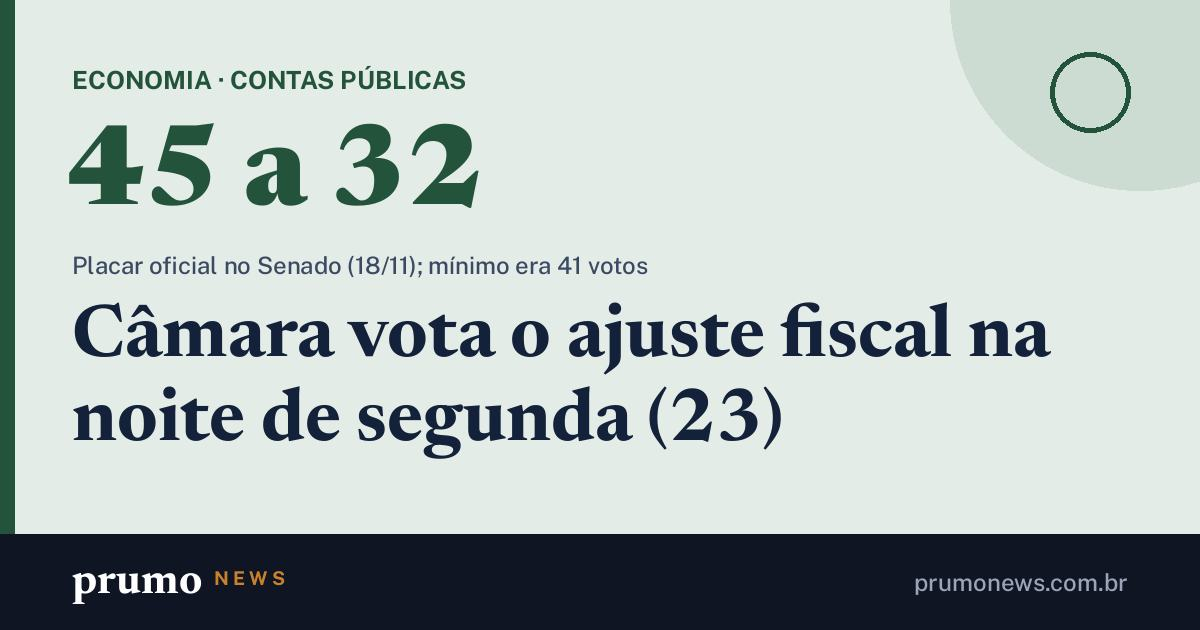
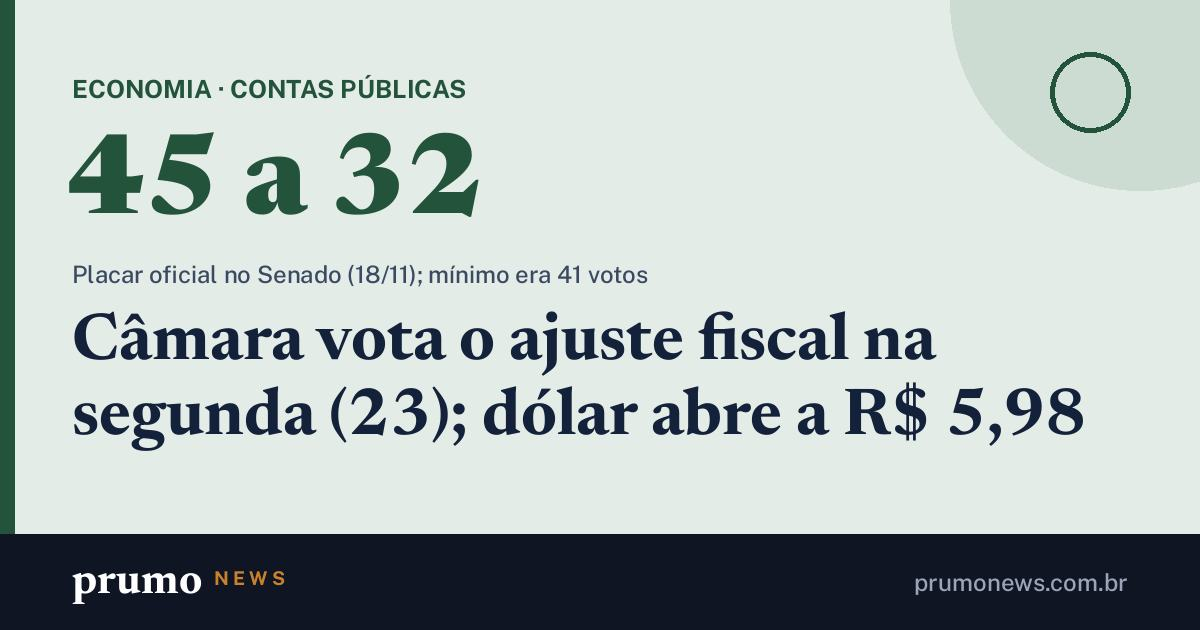
Páginas de compartilhamento 23/11 09h52

Changed region(s): [[0.0617, 0.4825, 0.925, 0.7238], [0.0308, 0.0905, 0.4008, 0.3619], [0.0617, 0.3921, 0.555, 0.4524]]

diff --git a/m/focus-projecoes-3-nov.html b/m/focus-projecoes-3-nov.html
@@ -3,20 +3,20 @@
 <head>
 <meta charset="utf-8">
 <meta name="viewport" content="width=device-width, initial-scale=1">
-<title>Novo Focus sai na segunda (23); o último vê IPCA de 2026 a 5,11% · Prumo News</title>
-<meta name="description" content="O boletim de segunda (16) mostrou a Selic em 13,75% no fim de 2026 e juros de 12,75% em 2027; o Copom decide a Selic em 9/12.">
-<link rel="canonical" href="https://prumonews.com.br/m/novo-focus-sai-na-segunda-23-o-ultimo-ve-ipca-de-2026-a-5-11.html">
+<title>Focus eleva o IPCA de 2026 a 5,15% e corta o PIB de novo · Prumo News</title>
+<meta name="description" content="O IPCA de 2026 passou de 5,11% para 5,15%, acima do teto de 4,5%; o Copom decide a Selic em 9/12.">
+<link rel="canonical" href="https://prumonews.com.br/m/focus-eleva-o-ipca-de-2026-a-5-15-e-corta-o-pib-de-novo.html">
 <meta property="og:type" content="article">
 <meta property="og:site_name" content="Prumo News">
 <meta property="og:locale" content="pt_BR">
-<meta property="og:title" content="Novo Focus sai na segunda (23); o último vê IPCA de 2026 a 5,11%">
-<meta property="og:description" content="O boletim de segunda (16) mostrou a Selic em 13,75% no fim de 2026 e juros de 12,75% em 2027; o Copom decide a Selic em 9/12.">
-<meta property="og:url" content="https://prumonews.com.br/m/novo-focus-sai-na-segunda-23-o-ultimo-ve-ipca-de-2026-a-5-11.html">
+<meta property="og:title" content="Focus eleva o IPCA de 2026 a 5,15% e corta o PIB de novo">
+<meta property="og:description" content="O IPCA de 2026 passou de 5,11% para 5,15%, acima do teto de 4,5%; o Copom decide a Selic em 9/12.">
+<meta property="og:url" content="https://prumonews.com.br/m/focus-eleva-o-ipca-de-2026-a-5-15-e-corta-o-pib-de-novo.html">
 <meta property="og:image" content="https://upload.wikimedia.org/wikipedia/commons/thumb/5/57/Edif%C3%ADcio_sede_do_Banco_Central_do_Brasil_%2816011635094%29.jpg/960px-Edif%C3%ADcio_sede_do_Banco_Central_do_Brasil_%2816011635094%29.jpg">
 <meta name="twitter:card" content="summary_large_image">
 <meta name="theme-color" content="#0f1522">
 <script>location.replace("/#m=focus-projecoes-3-nov")</script>
 <style>body{margin:0;font:16px/1.5 system-ui,sans-serif;background:#0f1522;color:#e8ecf2;display:grid;place-items:center;min-height:100vh;padding:24px;box-sizing:border-box;text-align:center}a{color:#e6b673}</style>
 </head>
-<body><p><a href="/#m=focus-projecoes-3-nov">Novo Focus sai na segunda (23); o último vê IPCA de 2026 a 5,11%</a><br>Abrindo no Prumo News…</p></body>
+<body><p><a href="/#m=focus-projecoes-3-nov">Focus eleva o IPCA de 2026 a 5,15% e corta o PIB de novo</a><br>Abrindo no Prumo News…</p></body>
 </html>

diff --git a/m/ajuste-fiscal-lula-4.html b/m/ajuste-fiscal-lula-4.html
@@ -3,16 +3,16 @@
 <head>
 <meta charset="utf-8">
 <meta name="viewport" content="width=device-width, initial-scale=1">
-<title>Câmara vota o ajuste fiscal na noite de segunda (23) · Prumo News</title>
+<title>Câmara vota o ajuste fiscal na segunda (23); dólar abre a R$ 5,98 · Prumo News</title>
 <meta name="description" content="O governo precisa de 257 votos; o relator mantém o texto do Senado, com economia de até R$ 50 bi em 2027, e sem mudanças o projeto vai à sanção.">
-<link rel="canonical" href="https://prumonews.com.br/m/camara-vota-o-ajuste-fiscal-na-noite-de-segunda-23.html">
+<link rel="canonical" href="https://prumonews.com.br/m/camara-vota-o-ajuste-fiscal-na-segunda-23-dolar-abre-a-r-5-98.html">
 <meta property="og:type" content="article">
 <meta property="og:site_name" content="Prumo News">
 <meta property="og:locale" content="pt_BR">
-<meta property="og:title" content="Câmara vota o ajuste fiscal na noite de segunda (23)">
+<meta property="og:title" content="Câmara vota o ajuste fiscal na segunda (23); dólar abre a R$ 5,98">
 <meta property="og:description" content="O governo precisa de 257 votos; o relator mantém o texto do Senado, com economia de até R$ 50 bi em 2027, e sem mudanças o projeto vai à sanção.">
-<meta property="og:url" content="https://prumonews.com.br/m/camara-vota-o-ajuste-fiscal-na-noite-de-segunda-23.html">
-<meta property="og:image" content="https://prumonews.com.br/m/og/ajuste-fiscal-lula-4.jpg?v=66f098b992">
+<meta property="og:url" content="https://prumonews.com.br/m/camara-vota-o-ajuste-fiscal-na-segunda-23-dolar-abre-a-r-5-98.html">
+<meta property="og:image" content="https://prumonews.com.br/m/og/ajuste-fiscal-lula-4.jpg?v=36283ebe7f">
 <meta property="og:image:width" content="1200">
 <meta property="og:image:height" content="630">
 <meta name="twitter:card" content="summary_large_image">
@@ -20,5 +20,5 @@
 <script>location.replace("/#m=ajuste-fiscal-lula-4")</script>
 <style>body{margin:0;font:16px/1.5 system-ui,sans-serif;background:#0f1522;color:#e8ecf2;display:grid;place-items:center;min-height:100vh;padding:24px;box-sizing:border-box;text-align:center}a{color:#e6b673}</style>
 </head>
-<body><p><a href="/#m=ajuste-fiscal-lula-4">Câmara vota o ajuste fiscal na noite de segunda (23)</a><br>Abrindo no Prumo News…</p></body>
+<body><p><a href="/#m=ajuste-fiscal-lula-4">Câmara vota o ajuste fiscal na segunda (23); dólar abre a R$ 5,98</a><br>Abrindo no Prumo News…</p></body>
 </html>

diff --git a/m/camara-vota-o-ajuste-fiscal-na-segunda-23-dolar-abre-a-r-5-98.html b/m/camara-vota-o-ajuste-fiscal-na-segunda-23-dolar-abre-a-r-5-98.html
@@ -1,0 +1,24 @@
+<!doctype html>
+<html lang="pt-BR">
+<head>
+<meta charset="utf-8">
+<meta name="viewport" content="width=device-width, initial-scale=1">
+<title>Câmara vota o ajuste fiscal na segunda (23); dólar abre a R$ 5,98 · Prumo News</title>
+<meta name="description" content="O governo precisa de 257 votos; o relator mantém o texto do Senado, com economia de até R$ 50 bi em 2027, e sem mudanças o projeto vai à sanção.">
+<link rel="canonical" href="https://prumonews.com.br/m/camara-vota-o-ajuste-fiscal-na-segunda-23-dolar-abre-a-r-5-98.html">
+<meta property="og:type" content="article">
+<meta property="og:site_name" content="Prumo News">
+<meta property="og:locale" content="pt_BR">
+<meta property="og:title" content="Câmara vota o ajuste fiscal na segunda (23); dólar abre a R$ 5,98">
+<meta property="og:description" content="O governo precisa de 257 votos; o relator mantém o texto do Senado, com economia de até R$ 50 bi em 2027, e sem mudanças o projeto vai à sanção.">
+<meta property="og:url" content="https://prumonews.com.br/m/camara-vota-o-ajuste-fiscal-na-segunda-23-dolar-abre-a-r-5-98.html">
+<meta property="og:image" content="https://prumonews.com.br/m/og/ajuste-fiscal-lula-4.jpg?v=36283ebe7f">
+<meta property="og:image:width" content="1200">
+<meta property="og:image:height" content="630">
+<meta name="twitter:card" content="summary_large_image">
+<meta name="theme-color" content="#0f1522">
+<script>location.replace("/#m=ajuste-fiscal-lula-4")</script>
+<style>body{margin:0;font:16px/1.5 system-ui,sans-serif;background:#0f1522;color:#e8ecf2;display:grid;place-items:center;min-height:100vh;padding:24px;box-sizing:border-box;text-align:center}a{color:#e6b673}</style>
+</head>
+<body><p><a href="/#m=ajuste-fiscal-lula-4">Câmara vota o ajuste fiscal na segunda (23); dólar abre a R$ 5,98</a><br>Abrindo no Prumo News…</p></body>
+</html>

diff --git a/m/focus-eleva-o-ipca-de-2026-a-5-15-e-corta-o-pib-de-novo.html b/m/focus-eleva-o-ipca-de-2026-a-5-15-e-corta-o-pib-de-novo.html
@@ -1,0 +1,22 @@
+<!doctype html>
+<html lang="pt-BR">
+<head>
+<meta charset="utf-8">
+<meta name="viewport" content="width=device-width, initial-scale=1">
+<title>Focus eleva o IPCA de 2026 a 5,15% e corta o PIB de novo · Prumo News</title>
+<meta name="description" content="O IPCA de 2026 passou de 5,11% para 5,15%, acima do teto de 4,5%; o Copom decide a Selic em 9/12.">
+<link rel="canonical" href="https://prumonews.com.br/m/focus-eleva-o-ipca-de-2026-a-5-15-e-corta-o-pib-de-novo.html">
+<meta property="og:type" content="article">
+<meta property="og:site_name" content="Prumo News">
+<meta property="og:locale" content="pt_BR">
+<meta property="og:title" content="Focus eleva o IPCA de 2026 a 5,15% e corta o PIB de novo">
+<meta property="og:description" content="O IPCA de 2026 passou de 5,11% para 5,15%, acima do teto de 4,5%; o Copom decide a Selic em 9/12.">
+<meta property="og:url" content="https://prumonews.com.br/m/focus-eleva-o-ipca-de-2026-a-5-15-e-corta-o-pib-de-novo.html">
+<meta property="og:image" content="https://upload.wikimedia.org/wikipedia/commons/thumb/5/57/Edif%C3%ADcio_sede_do_Banco_Central_do_Brasil_%2816011635094%29.jpg/960px-Edif%C3%ADcio_sede_do_Banco_Central_do_Brasil_%2816011635094%29.jpg">
+<meta name="twitter:card" content="summary_large_image">
+<meta name="theme-color" content="#0f1522">
+<script>location.replace("/#m=focus-projecoes-3-nov")</script>
+<style>body{margin:0;font:16px/1.5 system-ui,sans-serif;background:#0f1522;color:#e8ecf2;display:grid;place-items:center;min-height:100vh;padding:24px;box-sizing:border-box;text-align:center}a{color:#e6b673}</style>
+</head>
+<body><p><a href="/#m=focus-projecoes-3-nov">Focus eleva o IPCA de 2026 a 5,15% e corta o PIB de novo</a><br>Abrindo no Prumo News…</p></body>
+</html>

diff --git a/m/ucrania-afunda-navio-de-guerra-russo-na-libia.html b/m/ucrania-afunda-navio-de-guerra-russo-na-libia.html
@@ -1,0 +1,22 @@
+<!doctype html>
+<html lang="pt-BR">
+<head>
+<meta charset="utf-8">
+<meta name="viewport" content="width=device-width, initial-scale=1">
+<title>Ucrânia afunda navio de guerra russo na Líbia · Prumo News</title>
+<meta name="description" content="O ataque com drones navais atingiu também um cargueiro, um dia depois de outro navio russo ser alvo no Golfo da Finlândia.">
+<link rel="canonical" href="https://prumonews.com.br/m/ucrania-afunda-navio-de-guerra-russo-na-libia.html">
+<meta property="og:type" content="article">
+<meta property="og:site_name" content="Prumo News">
+<meta property="og:locale" content="pt_BR">
+<meta property="og:title" content="Ucrânia afunda navio de guerra russo na Líbia">
+<meta property="og:description" content="O ataque com drones navais atingiu também um cargueiro, um dia depois de outro navio russo ser alvo no Golfo da Finlândia.">
+<meta property="og:url" content="https://prumonews.com.br/m/ucrania-afunda-navio-de-guerra-russo-na-libia.html">
+<meta property="og:image" content="https://upload.wikimedia.org/wikipedia/commons/thumb/f/f2/Maidan_Nezalezhnosti%2C_Kyiv_%2828290034577%29.jpg/960px-Maidan_Nezalezhnosti%2C_Kyiv_%2828290034577%29.jpg">
+<meta name="twitter:card" content="summary_large_image">
+<meta name="theme-color" content="#0f1522">
+<script>location.replace("/#m=ucrania-navio-russo-libia")</script>
+<style>body{margin:0;font:16px/1.5 system-ui,sans-serif;background:#0f1522;color:#e8ecf2;display:grid;place-items:center;min-height:100vh;padding:24px;box-sizing:border-box;text-align:center}a{color:#e6b673}</style>
+</head>
+<body><p><a href="/#m=ucrania-navio-russo-libia">Ucrânia afunda navio de guerra russo na Líbia</a><br>Abrindo no Prumo News…</p></body>
+</html>

diff --git a/m/ucrania-navio-russo-libia.html b/m/ucrania-navio-russo-libia.html
@@ -1,0 +1,22 @@
+<!doctype html>
+<html lang="pt-BR">
+<head>
+<meta charset="utf-8">
+<meta name="viewport" content="width=device-width, initial-scale=1">
+<title>Ucrânia afunda navio de guerra russo na Líbia · Prumo News</title>
+<meta name="description" content="O ataque com drones navais atingiu também um cargueiro, um dia depois de outro navio russo ser alvo no Golfo da Finlândia.">
+<link rel="canonical" href="https://prumonews.com.br/m/ucrania-afunda-navio-de-guerra-russo-na-libia.html">
+<meta property="og:type" content="article">
+<meta property="og:site_name" content="Prumo News">
+<meta property="og:locale" content="pt_BR">
+<meta property="og:title" content="Ucrânia afunda navio de guerra russo na Líbia">
+<meta property="og:description" content="O ataque com drones navais atingiu também um cargueiro, um dia depois de outro navio russo ser alvo no Golfo da Finlândia.">
+<meta property="og:url" content="https://prumonews.com.br/m/ucrania-afunda-navio-de-guerra-russo-na-libia.html">
+<meta property="og:image" content="https://upload.wikimedia.org/wikipedia/commons/thumb/f/f2/Maidan_Nezalezhnosti%2C_Kyiv_%2828290034577%29.jpg/960px-Maidan_Nezalezhnosti%2C_Kyiv_%2828290034577%29.jpg">
+<meta name="twitter:card" content="summary_large_image">
+<meta name="theme-color" content="#0f1522">
+<script>location.replace("/#m=ucrania-navio-russo-libia")</script>
+<style>body{margin:0;font:16px/1.5 system-ui,sans-serif;background:#0f1522;color:#e8ecf2;display:grid;place-items:center;min-height:100vh;padding:24px;box-sizing:border-box;text-align:center}a{color:#e6b673}</style>
+</head>
+<body><p><a href="/#m=ucrania-navio-russo-libia">Ucrânia afunda navio de guerra russo na Líbia</a><br>Abrindo no Prumo News…</p></body>
+</html>

diff --git a/m/ataque-russo-a-predio-na-ucrania-deixa-11-mortos.html b/m/ataque-russo-a-predio-na-ucrania-deixa-11-mortos.html
@@ -12,7 +12,7 @@
 <meta property="og:title" content="Ataque russo a prédio na Ucrânia deixa 11 mortos">
 <meta property="og:description" content="Um menino e uma idosa foram resgatados; no domingo (22), Zelenski falava em ao menos 14 desaparecidos na região de Kiev.">
 <meta property="og:url" content="https://prumonews.com.br/m/ataque-russo-a-predio-na-ucrania-deixa-11-mortos.html">
-<meta property="og:image" content="https://upload.wikimedia.org/wikipedia/commons/thumb/f/f2/Maidan_Nezalezhnosti%2C_Kyiv_%2828290034577%29.jpg/960px-Maidan_Nezalezhnosti%2C_Kyiv_%2828290034577%29.jpg">
+<meta property="og:image" content="https://upload.wikimedia.org/wikipedia/commons/thumb/a/a9/Maidan_Nezalezhnosti%2C_Kyiv_%2842844212824%29.jpg/960px-Maidan_Nezalezhnosti%2C_Kyiv_%2842844212824%29.jpg">
 <meta name="twitter:card" content="summary_large_image">
 <meta name="theme-color" content="#0f1522">
 <script>location.replace("/#m=ucrania-drone-predio-kiev-desaparecidos")</script>

diff --git a/m/ucrania-drone-predio-kiev-desaparecidos.html b/m/ucrania-drone-predio-kiev-desaparecidos.html
@@ -12,7 +12,7 @@
 <meta property="og:title" content="Ataque russo a prédio na Ucrânia deixa 11 mortos">
 <meta property="og:description" content="Um menino e uma idosa foram resgatados; no domingo (22), Zelenski falava em ao menos 14 desaparecidos na região de Kiev.">
 <meta property="og:url" content="https://prumonews.com.br/m/ataque-russo-a-predio-na-ucrania-deixa-11-mortos.html">
-<meta property="og:image" content="https://upload.wikimedia.org/wikipedia/commons/thumb/f/f2/Maidan_Nezalezhnosti%2C_Kyiv_%2828290034577%29.jpg/960px-Maidan_Nezalezhnosti%2C_Kyiv_%2828290034577%29.jpg">
+<meta property="og:image" content="https://upload.wikimedia.org/wikipedia/commons/thumb/a/a9/Maidan_Nezalezhnosti%2C_Kyiv_%2842844212824%29.jpg/960px-Maidan_Nezalezhnosti%2C_Kyiv_%2842844212824%29.jpg">
 <meta name="twitter:card" content="summary_large_image">
 <meta name="theme-color" content="#0f1522">
 <script>location.replace("/#m=ucrania-drone-predio-kiev-desaparecidos")</script>
